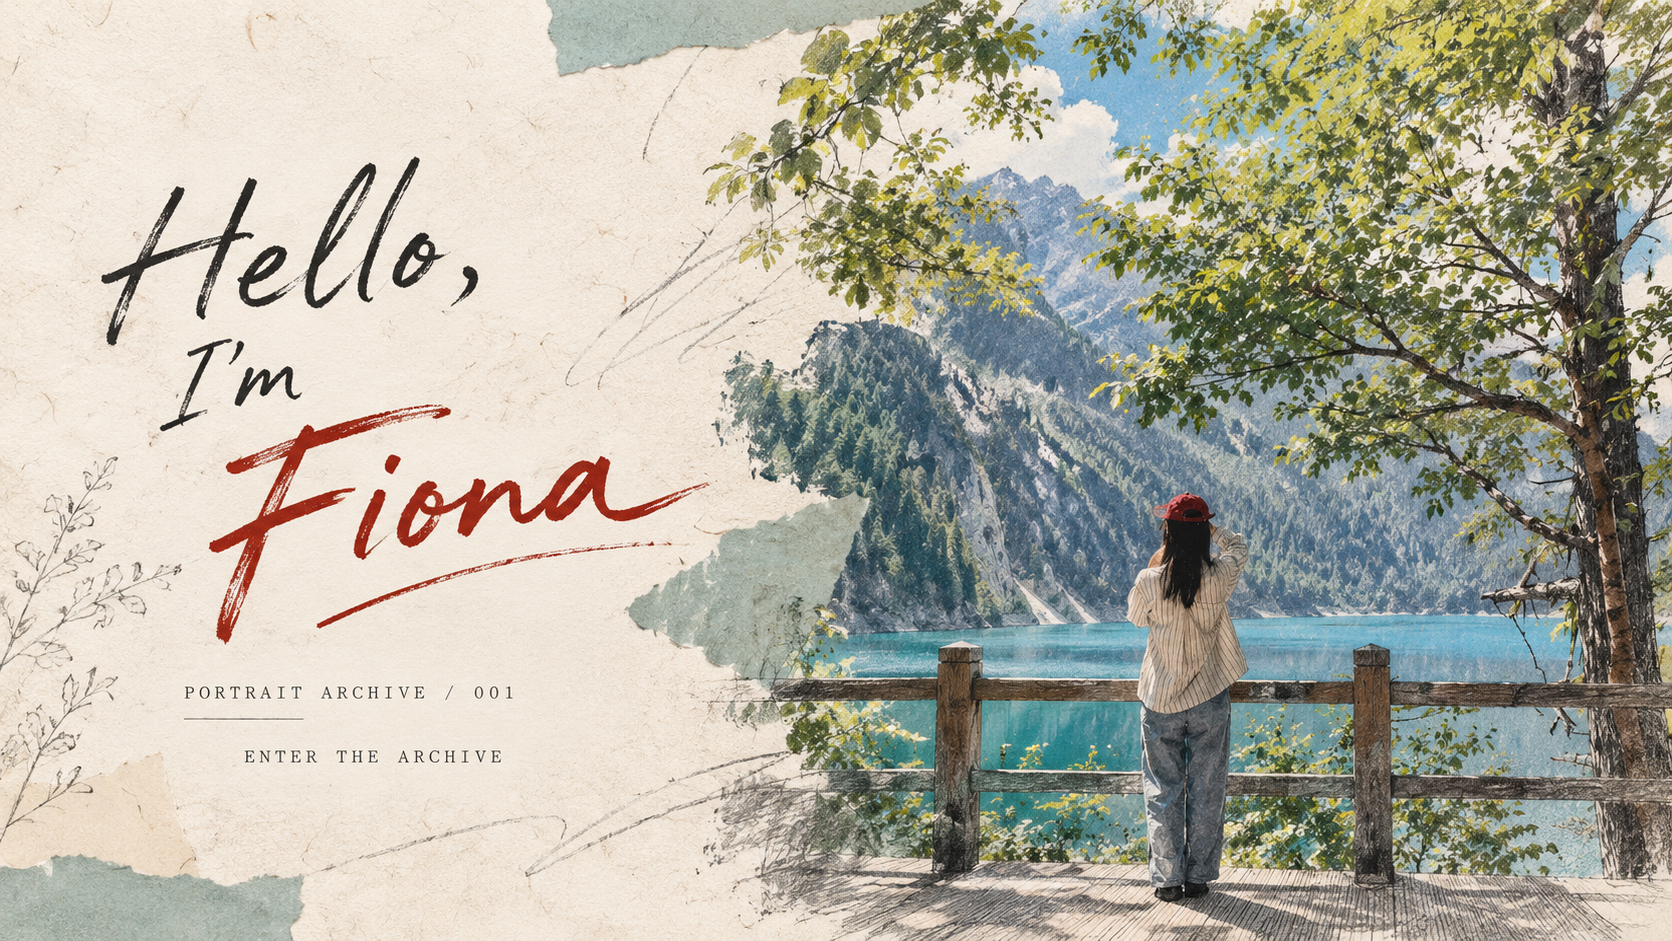
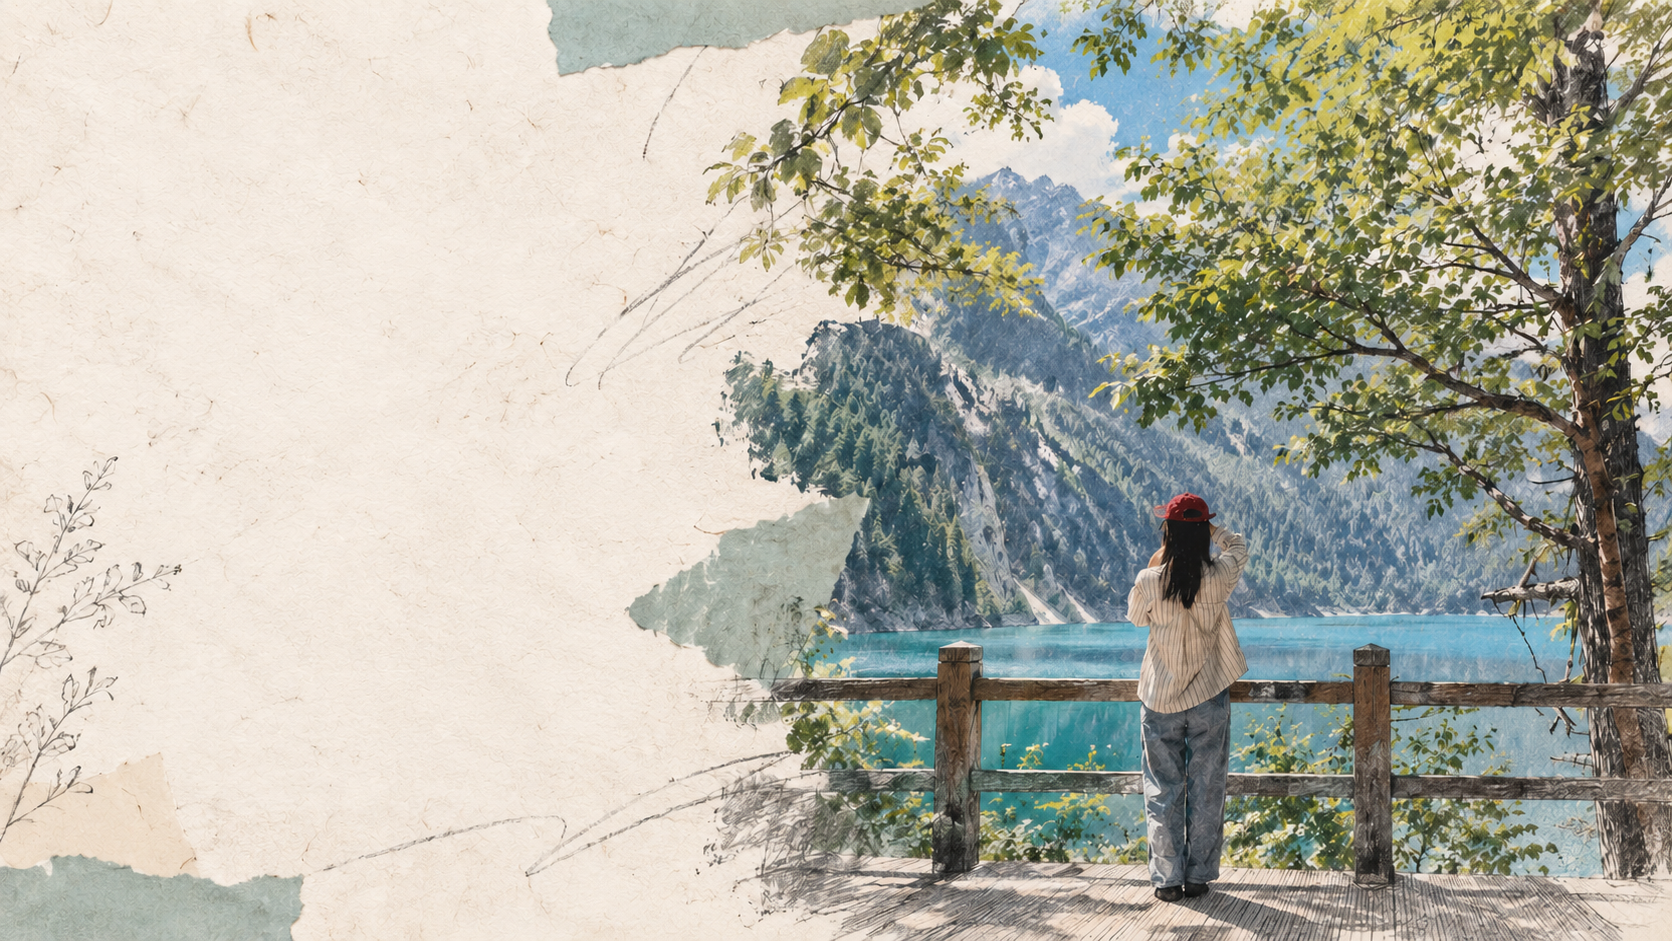
Refresh welcome poster and strengthen local interactions

diff --git a/src/gallery.css b/src/gallery.css
@@ -129,3 +129,8 @@ body{background:#fff!important}.rooms{background:#fff!important;min-height:100vh
 @media(prefers-reduced-motion:reduce){.leaf-zone.near,.water-zone.near:before,.water-zone i{animation:none!important}.water-zone i{display:none}}
 /* Poster already contains its archive typography; avoid duplicate overlays. */
 .welcome .archive,.welcome .welcome-notes{display:none!important}
+/* stronger, visible local motion cues */
+.leaf-zone:after{content:'';position:absolute;right:8%;top:12%;width:42%;height:32%;border-radius:50%;background:radial-gradient(ellipse,rgba(188,205,110,.18),transparent 68%);opacity:0;transition:opacity .35s}
+.leaf-zone.near:after{opacity:1}
+.water-zone:after{content:'';position:absolute;left:12%;right:12%;bottom:12%;height:34%;border-radius:50%;border:1px solid rgba(180,235,238,.35);opacity:0;transform:scale(.95);transition:opacity .35s,transform .35s}
+.water-zone.near:after{opacity:1;transform:scale(1);box-shadow:0 0 24px rgba(153,224,230,.2)}
